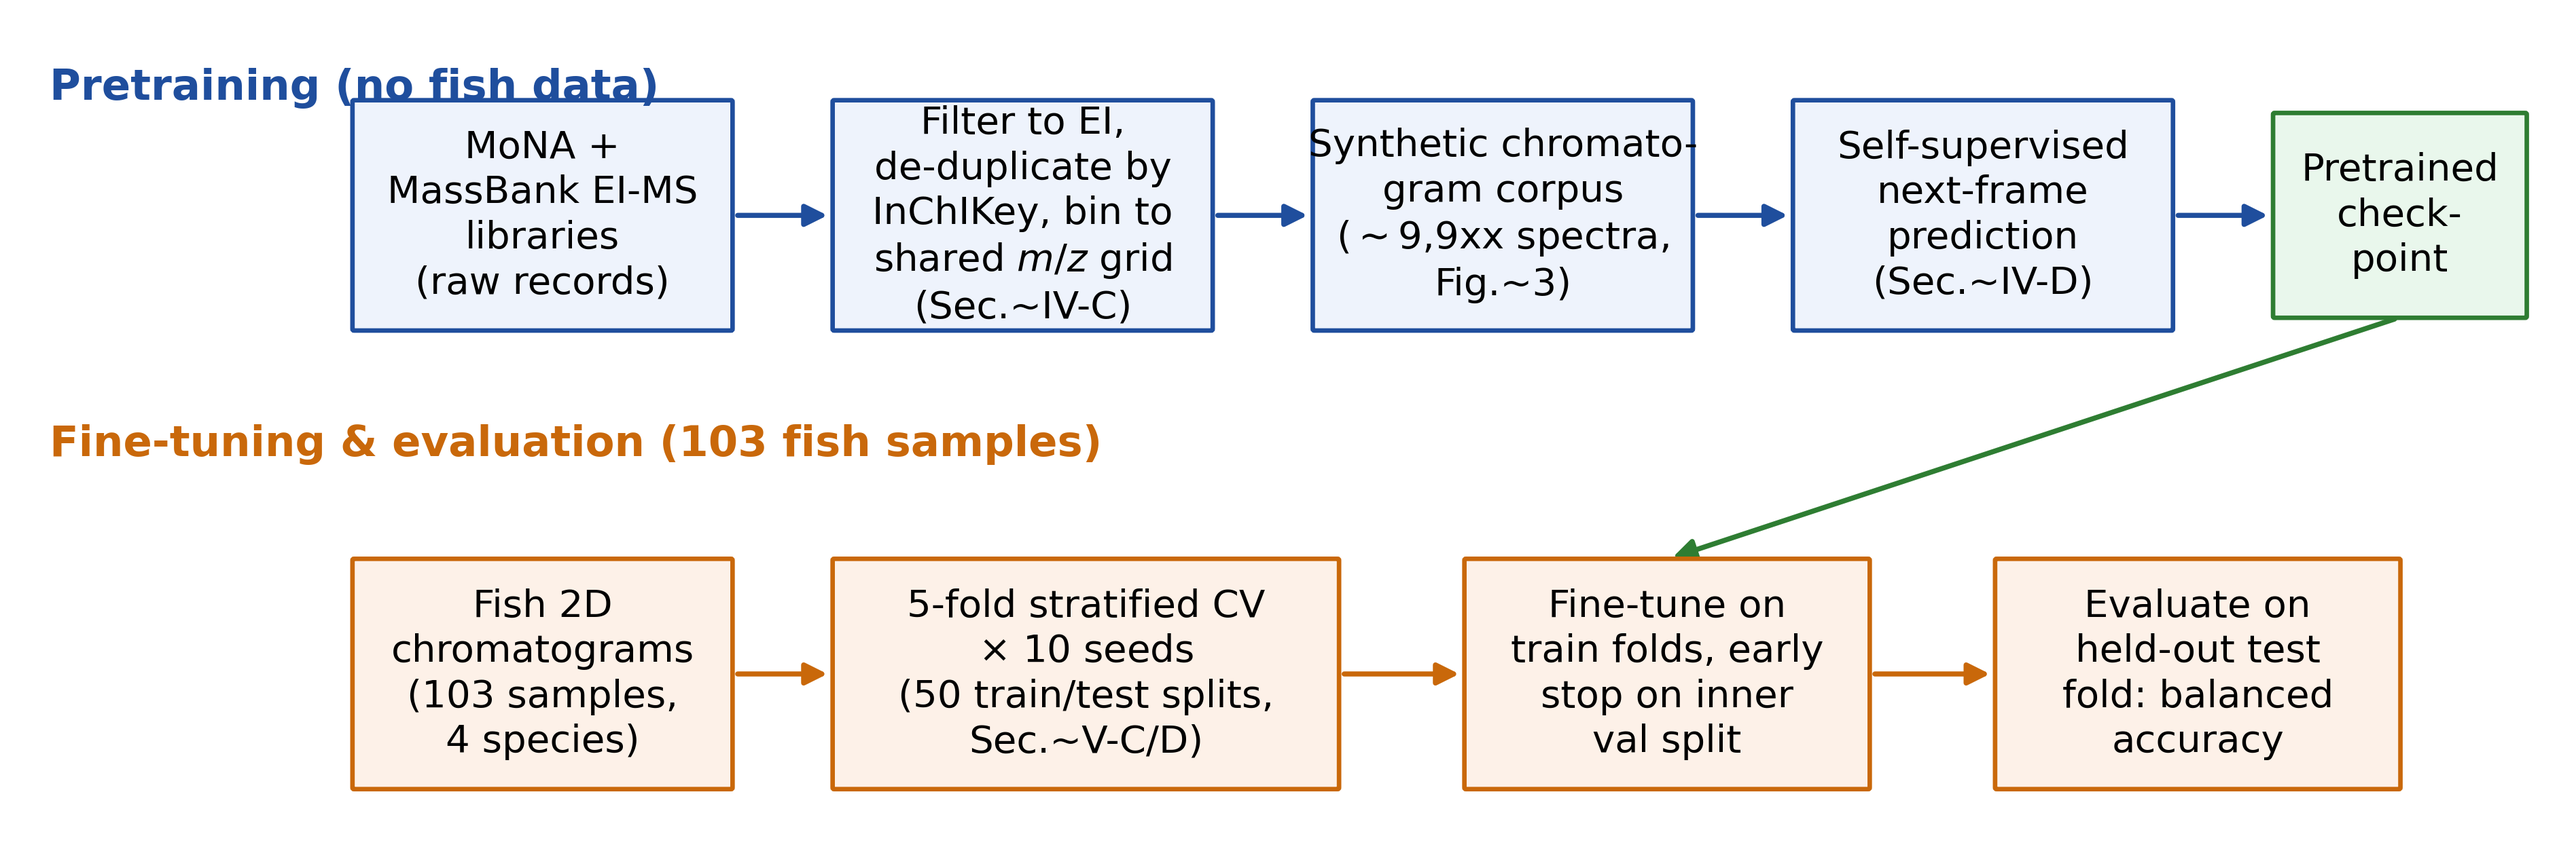
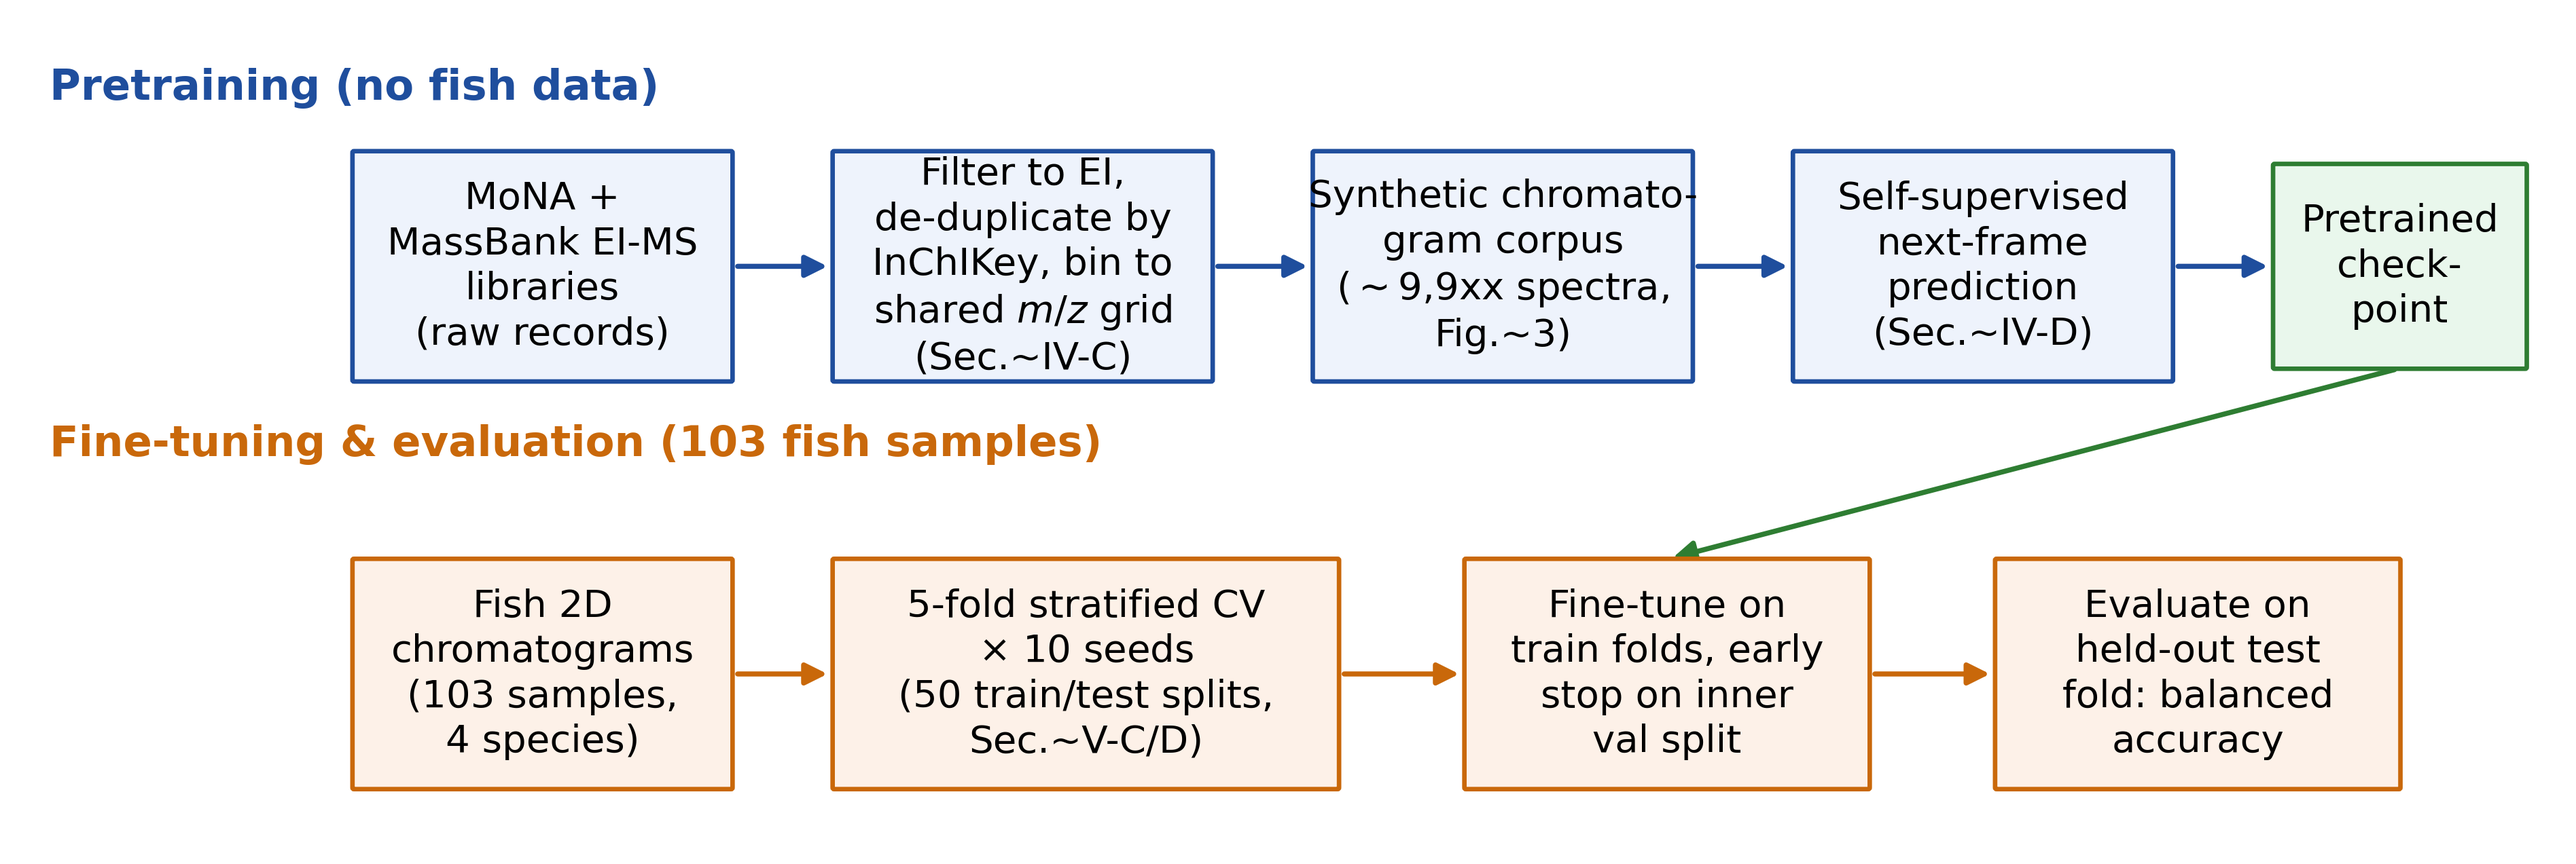
Fix pipeline figure: row label overlapped the flowchart boxes
The "Pretraining (no fish data)" label sat only 0.5 data-units above
the top row's boxes, which the bold 15pt text's own height ate into.
Push the top row down for real clearance (reviewer: R1.31 follow-up).

diff --git a/figs/generate_pipeline.py b/figs/generate_pipeline.py
@@ -64,19 +64,19 @@ ax.text(1, 15.5, "Fine-tuning & evaluation (103 fish samples)", fontsize=FS_ROW,
         fontweight="bold", color=BOTTOM_EDGE, va="center", ha="left")
 
 # ── Top row: synthetic-pretraining pipeline ──────────────────────────────────
-b1 = box(ax, (13, 20), 15, 9,
+b1 = box(ax, (13, 18), 15, 9,
          "MoNA +\nMassBank EI-MS\nlibraries\n(raw records)",
          TOP_COLOR, TOP_EDGE)
-b2 = box(ax, (32, 20), 15, 9,
+b2 = box(ax, (32, 18), 15, 9,
          "Filter to EI,\nde-duplicate by\nInChIKey, bin to\nshared $m/z$ grid\n(Sec.~IV-C)",
          TOP_COLOR, TOP_EDGE)
-b3 = box(ax, (51, 20), 15, 9,
+b3 = box(ax, (51, 18), 15, 9,
          "Synthetic chromato-\ngram corpus\n($\\sim$9,9xx spectra,\nFig.~3)",
          TOP_COLOR, TOP_EDGE)
-b4 = box(ax, (70, 20), 15, 9,
+b4 = box(ax, (70, 18), 15, 9,
          "Self-supervised\nnext-frame\nprediction\n(Sec.~IV-D)",
          TOP_COLOR, TOP_EDGE)
-b5 = box(ax, (89, 20.5), 10, 8,
+b5 = box(ax, (89, 18.5), 10, 8,
          "Pretrained\ncheck-\npoint", CKPT_COLOR, CKPT_EDGE)
 
 for (bx, by, bw, bh), (cx, cy, cw, ch) in zip(
